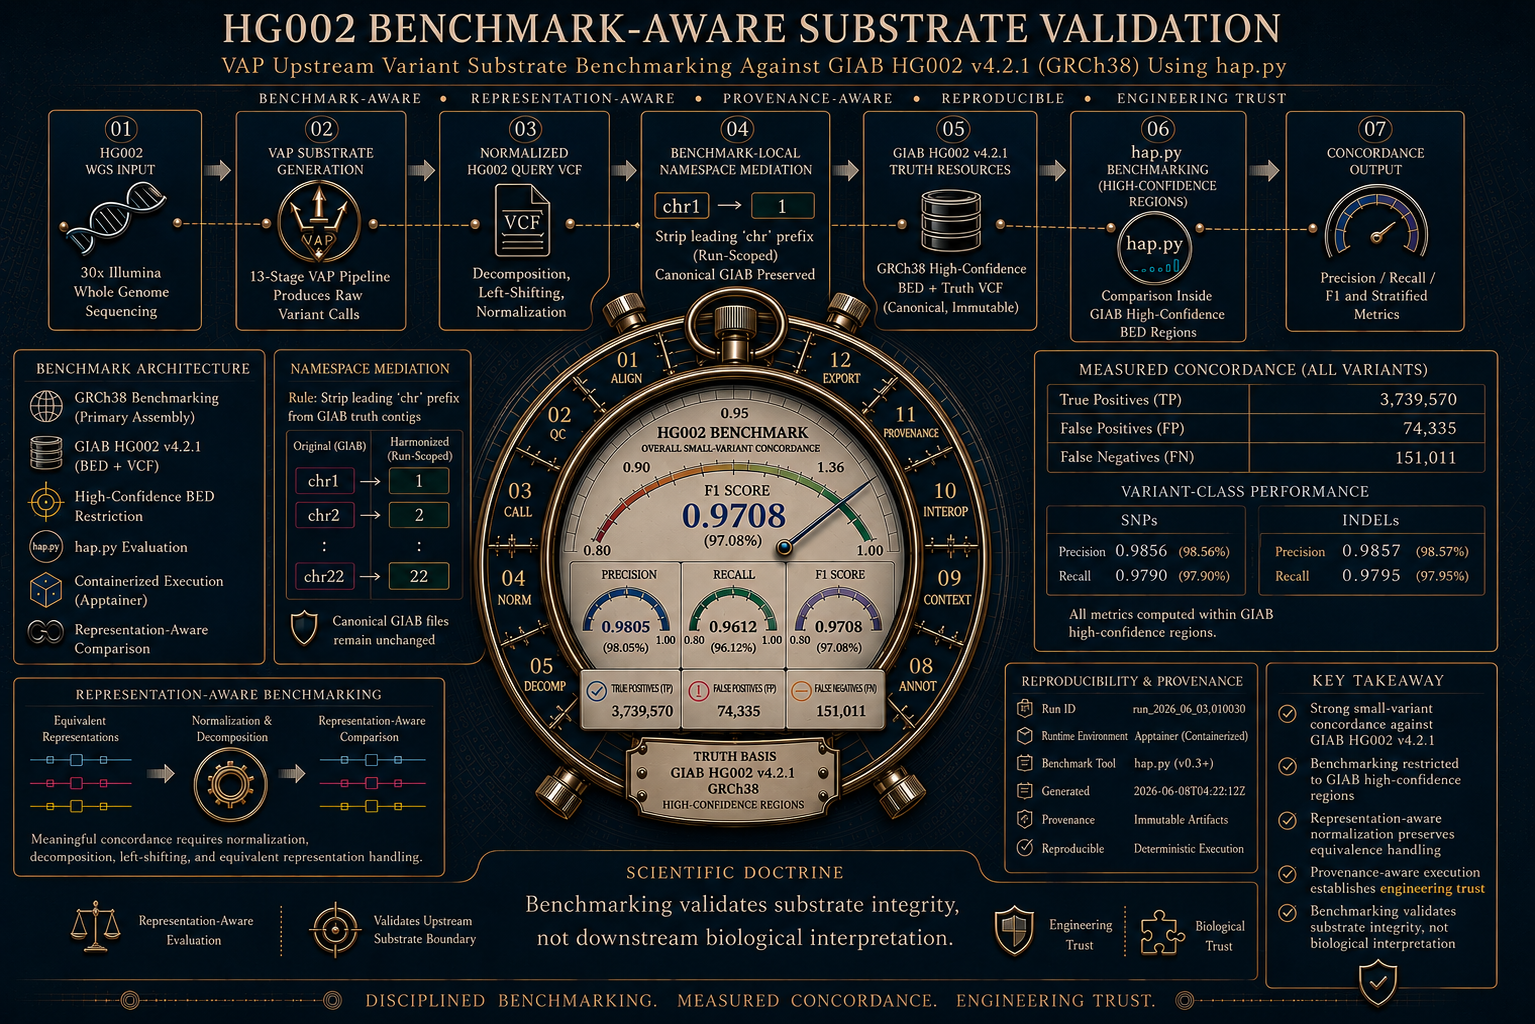
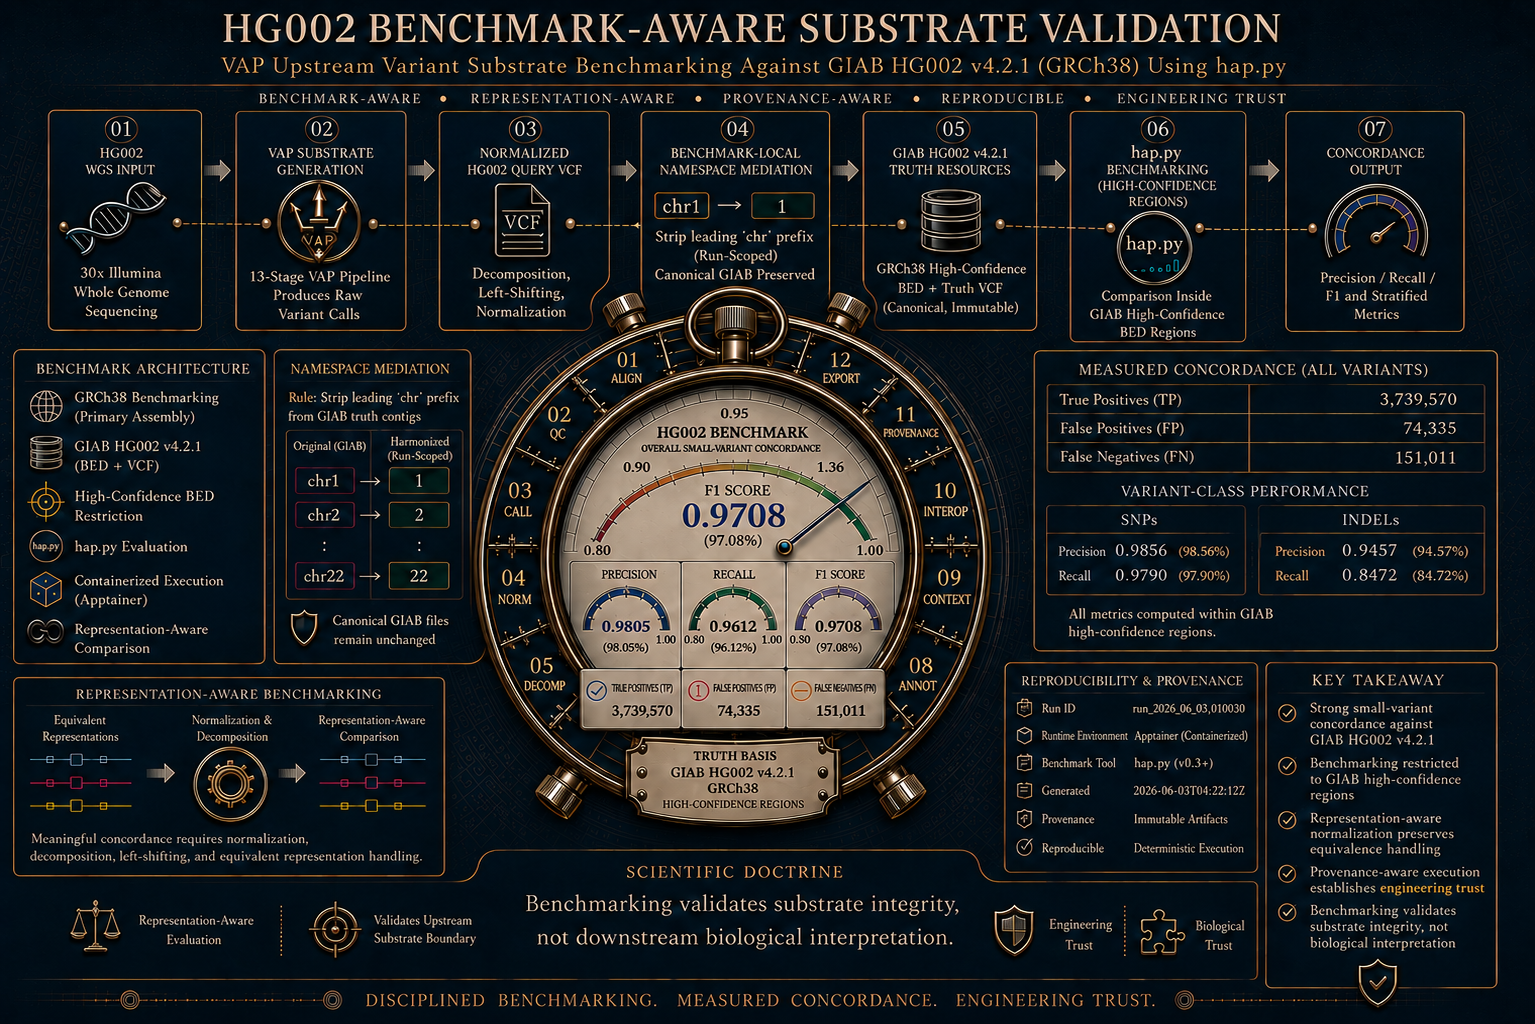
Corrected indel performance metrics for precision, recall, and f1 to reflect hap.py benchmarking results in both figures and documentation regarding validation of VAP execution on WGS HG002.

diff --git a/docs/case_studies/hg002/benchmarking/README.md b/docs/case_studies/hg002/benchmarking/README.md
@@ -1,0 +1,173 @@
+# README.md for `docs/case_studies/hg002/benchmarking/`
+
+To calculate aggregate metrics across SNP and INDEL performance for VAP on HG002, we employed the following procedure.
+
+From the [hg002 SNP indel metrics TSV](hg002_snp_indel_metrics.tsv):
+
+| Variant Type |  TRUTH.TP | TRUTH.FN | QUERY.FP |
+| ------------ | --------: | -------: | -------: |
+| SNP          | 3,294,402 |   70,713 |   48,167 |
+| INDEL        |   445,168 |   80,298 |   26,168 |
+
+Note that:
+
+- `QUERY.TP` was absent, so the v1 fallback used `TRUTH.TP` as `TP`.
+
+---
+
+## Step 1: Aggregate TP
+
+```text
+TP = SNP_TP + INDEL_TP
+TP = 3,294,402 + 445,168
+TP = 3,739,570
+```
+
+---
+
+## Step 2: Aggregate FP
+
+```text
+FP = SNP_FP + INDEL_FP
+FP = 48,167 + 26,168
+FP = 74,335
+```
+
+---
+
+## Step 3: Aggregate FN
+
+```text
+FN = SNP_FN + INDEL_FN
+FN = 70,713 + 80,298
+FN = 151,011
+```
+
+---
+
+## Step 4: Quick Validation Aginst Final Benchmark Summary
+
+```text
+TP = 3,739,570
+FP =   74,335
+FN =  151,011
+```
+
+The [Final Benchmark Summary](hg002_benchmark_summary.json) thus validates these aggregate calculations.
+
+---
+
+## Step 5: Precision
+
+Precision formula:
+
+
+```text
+                TP
+Precision =  ———————
+             TP + FP
+```
+	
+Substitute values:
+
+```text
+                  3,739,570
+Precision =  —————————————————— = 0.9805094778
+             3,739,570 + 74,335
+```
+
+Rounded:
+
+```text
+Precision = 0.9805
+Precision = 98.05%
+```
+
+---
+
+## Step 6: Recall
+
+Recall formula:
+
+```text
+            TP
+Recall =  ———————
+          TP + FN
+```
+
+Substitute:
+
+```text
+               3,739,570
+Recall =  ——————————————————— = 0.9611854887
+          3,739,570 + 151,011
+```
+
+Rounded:
+
+```text
+Recall = 0.9612
+Recall = 96.12%
+```
+
+---
+
+## Step 7: F1
+
+```text
+       2PR
+F1 =  ——————
+      P + R
+```
+
+Using:
+
+```text
+P = 0.9805094778
+R = 0.9611854887
+```
+
+Numerator:
+
+```text
+2 × P × R = 2 × 0.9805094778 × 0.9611854887
+2PR = 1.8858477009
+```
+
+Denominator:
+
+```text
+P + R = 0.9805094778 + 0.9611854887
+P + R = 1.9416949665
+```
+
+Final:
+
+```text
+       2PR      1.8858477009
+F1 =  —————— =  ———————————— = 0.9707513259
+      P + R     1.9416949665
+```
+
+Rounded:
+
+```text
+F1 = 0.9707513259
+F1 = 97.08%
+```
+
+---
+
+# Final aggregate values
+
+```text
+TP = 3,739,570
+FP =   74,335
+FN =  151,011
+
+Precision = 0.9805 (98.05%)
+Recall    = 0.9612 (96.12%)
+F1        = 0.9708 (97.08%)
+```
+
+> `hap.py` benchmarking reveals that VAP performance on HG002 exhibits robust precision, recall and F1 metrics.